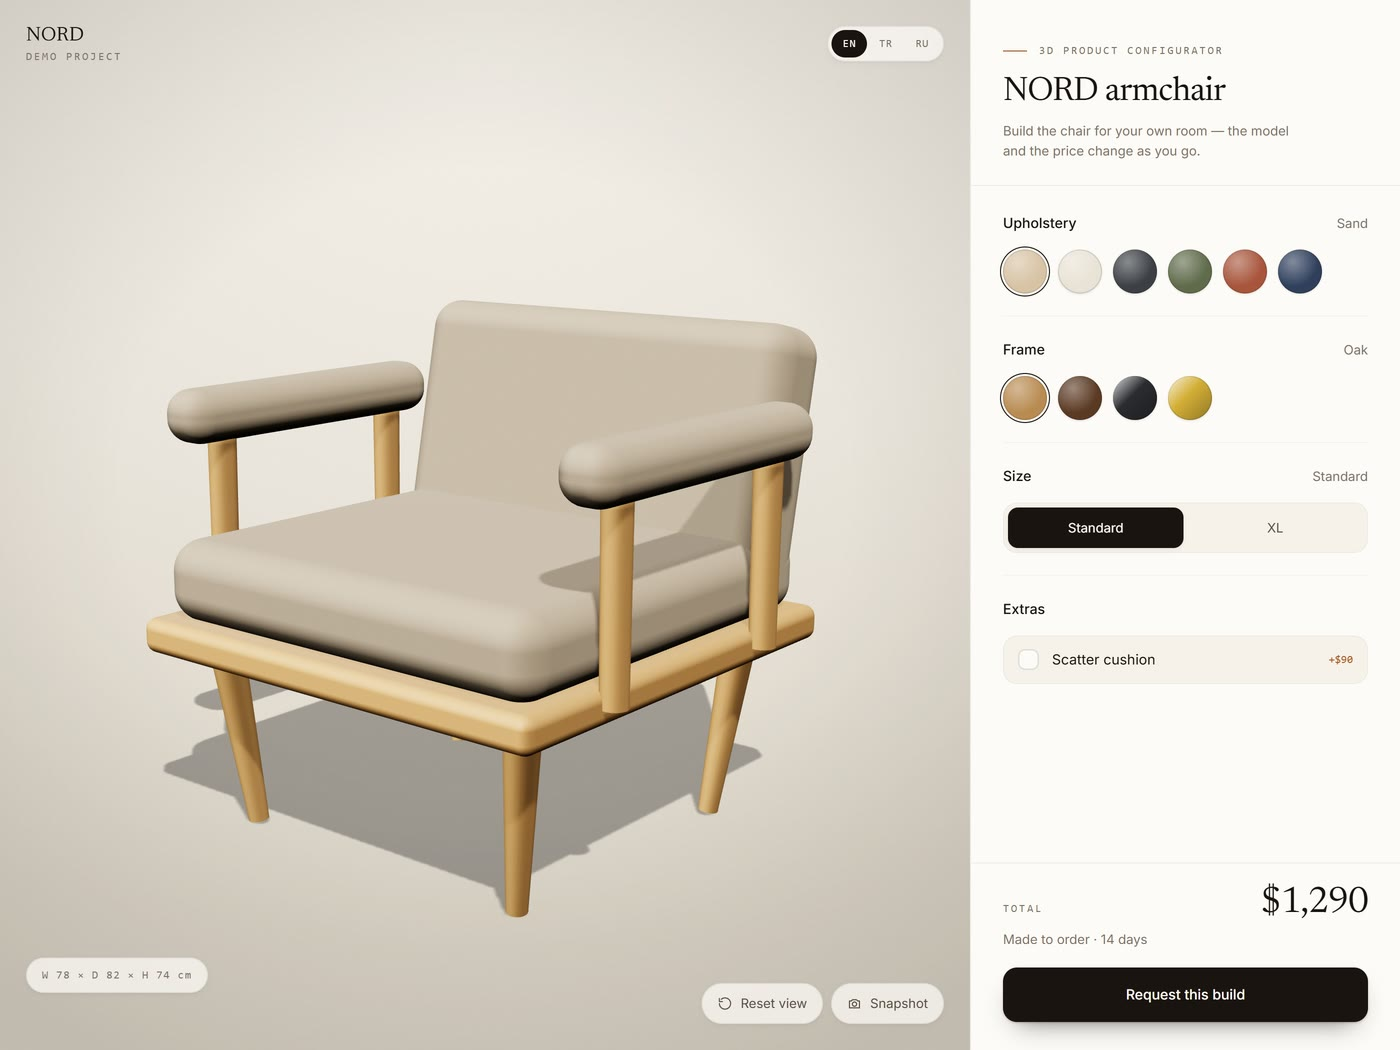
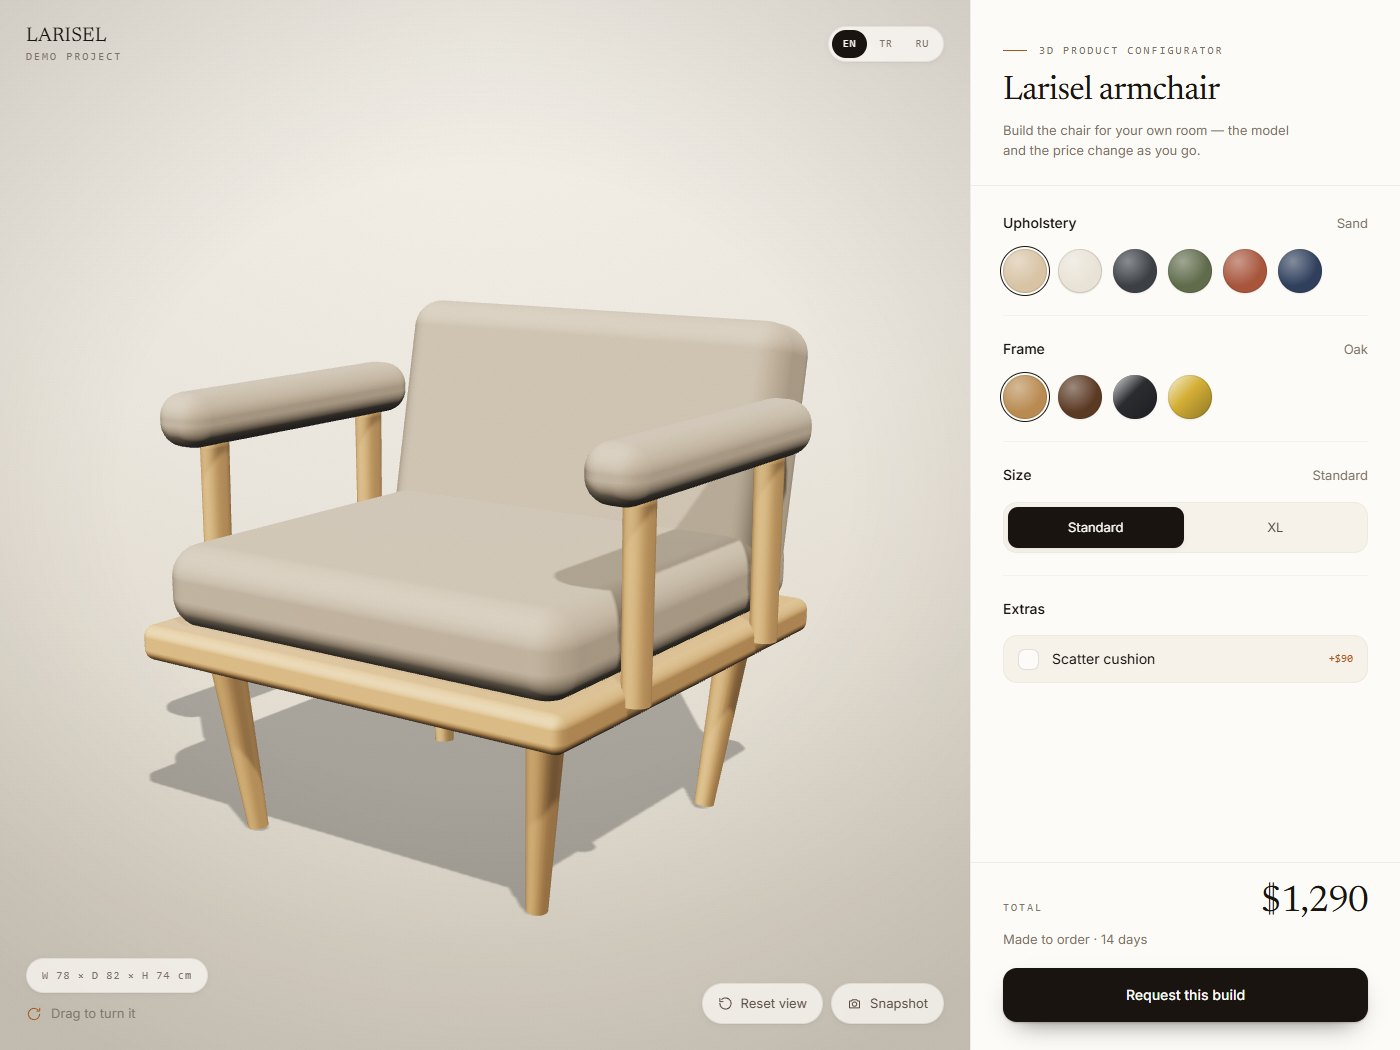
Portfolyo: tum projeler Larisel adiyla (Larisel Koltuk, Larisel Group, Larisel Ic Mekan, Larisel Siparis Botu); Larisel Group 3. siraya alindi; yeni gorseller ve depo adresleri

diff --git a/js/i18n.js b/js/i18n.js
@@ -55,22 +55,22 @@
       "Larisel Café": "Larisel Kafe",
       "A café site where the product is the interface: a scroll-driven film from bean to cup, a live 3D cup you design — colour, print, your name — a printed order ticket, ordering from the table by QR with a split bill, and a coffee reading from a photo of your own cup.":
         "Ürünün kendisinin arayüz olduğu bir kafe sitesi: çekirdekten bardağa kaydırmalı bir film, canlı 3B’de tasarlanan bardak (renk, desen, adın), basılı sipariş fişi, QR ile masadan sipariş ve hesap bölme, kendi fincanının fotoğrafından kahve falı.",
-      "03 — Interior configurator": "03 — İç mekân yapılandırıcı",
-      "Interior materials": "İç mekân malzemeleri",
+      "04 — Interior configurator": "04 — İç mekân yapılandırıcı",
+      "Larisel Interiors": "Larisel İç Mekân",
       "A room the client changes while standing in it: floor, worktop, cabinet fronts and wall colour, with a daylight-to-evening switch. Every material is generated in code, so nothing is downloaded and it opens on a phone.":
         "Müşterinin içinde dururken değiştirdiği bir oda: zemin, tezgâh, dolap kapağı ve duvar rengi; gündüzden akşama geçen ışık. Bütün malzemeler kodla üretiliyor, hiçbir şey indirilmiyor ve telefonda açılıyor.",
 
       "02 — Product configurator": "02 — Ürün yapılandırıcı",
-      "Armchair configurator": "Koltuk yapılandırıcı",
+      "Larisel Armchair": "Larisel Koltuk",
       "A real-time 3D configurator: six fabrics, four frame finishes, two sizes, with the price and lead time recalculating as the customer builds the product. Runs in the browser, no plugin, works on a phone.":
         "Gerçek zamanlı 3B yapılandırıcı: altı kumaş, dört gövde kaplaması, iki ölçü; müşteri ürünü kurdukça fiyat ve teslim süresi anında güncelleniyor. Tarayıcıda çalışır, eklenti istemez, telefonda da açılır.",
 
-      "04 — Corporate site": "04 — Kurumsal site",
+      "03 — Corporate site": "03 — Kurumsal site",
       "A corporate site for a fictional holding working across retail, construction and energy. Three languages from a single set of pages, a 3D building model on the construction section, and a design system built on tokens rather than one-off values.":
         "Market, inşaat ve enerji alanlarında çalışan kurgusal bir holding için kurumsal site. Tek sayfa takımından üç dil, inşaat bölümünde 3B bina modeli ve tek seferlik değerler yerine token'lara dayanan bir tasarım sistemi.",
 
       "05 — Automation": "05 — Otomasyon",
-      "Furniture shop order bot": "Mobilya mağazası sipariş botu",
+      "Larisel Order Bot": "Larisel Sipariş Botu",
       "A Telegram bot that carries a catalog, a cart and a five-step checkout, with an admin panel and Excel export behind it. Built so an order can never be silently lost — every step is validated and persisted.":
         "Katalog, sepet ve beş adımlı sipariş akışı taşıyan; arkasında yönetici paneli ve Excel dışa aktarımı olan bir Telegram botu. Hiçbir sipariş sessizce kaybolmasın diye kuruldu — her adım doğrulanır ve kaydedilir.",
 
@@ -126,7 +126,7 @@
         "Meşe gövde üzerinde kum rengi kumaşla render alınmış 3B koltuk yapılandırıcı",
       "A kitchen interior configured in the browser: marble worktop, gloss fronts, oak floor":
         "Tarayıcıda yapılandırılan bir mutfak iç mekânı: mermer tezgâh, lake kapaklar, meşe zemin",
-      "Tarven Group corporate website home page": "Tarven Group kurumsal web sitesi ana sayfası",
+      "Larisel Group corporate website home page": "Larisel Group kurumsal web sitesi ana sayfası",
       "Telegram order bot interface showing a furniture catalog":
         "Mobilya kataloğunu gösteren Telegram sipariş botu arayüzü",
       "Larisel — home": "Larisel — ana sayfa",
@@ -167,22 +167,22 @@
       "Larisel Café": "Кафе Larisel",
       "A café site where the product is the interface: a scroll-driven film from bean to cup, a live 3D cup you design — colour, print, your name — a printed order ticket, ordering from the table by QR with a split bill, and a coffee reading from a photo of your own cup.":
         "Сайт кофейни, где продукт и есть интерфейс: фильм от зерна до чашки при прокрутке, живой 3D-стакан, который вы оформляете сами, — цвет, узор, ваше имя, — печатный чек заказа, заказ со стола по QR с разделением счёта и гадание по фото вашей чашки.",
-      "03 — Interior configurator": "03 — Конфигуратор интерьера",
-      "Interior materials": "Материалы интерьера",
+      "04 — Interior configurator": "04 — Конфигуратор интерьера",
+      "Larisel Interiors": "Интерьеры Larisel",
       "A room the client changes while standing in it: floor, worktop, cabinet fronts and wall colour, with a daylight-to-evening switch. Every material is generated in code, so nothing is downloaded and it opens on a phone.":
         "Комната, которую клиент меняет, находясь внутри: пол, столешница, фасады и цвет стен, плюс переключение дневного и вечернего света. Все материалы генерируются кодом — ничего не скачивается, открывается с телефона.",
 
       "02 — Product configurator": "02 — Конфигуратор товара",
-      "Armchair configurator": "Конфигуратор кресла",
+      "Larisel Armchair": "Кресло Larisel",
       "A real-time 3D configurator: six fabrics, four frame finishes, two sizes, with the price and lead time recalculating as the customer builds the product. Runs in the browser, no plugin, works on a phone.":
         "3D-конфигуратор в реальном времени: шесть тканей, четыре отделки каркаса, два размера, а цена и срок пересчитываются прямо по ходу сборки. Работает в браузере, без плагинов, в том числе на телефоне.",
 
-      "04 — Corporate site": "04 — Корпоративный сайт",
+      "03 — Corporate site": "03 — Корпоративный сайт",
       "A corporate site for a fictional holding working across retail, construction and energy. Three languages from a single set of pages, a 3D building model on the construction section, and a design system built on tokens rather than one-off values.":
         "Корпоративный сайт вымышленного холдинга, работающего в ритейле, строительстве и энергетике. Три языка на одном наборе страниц, 3D-модель здания в разделе строительства и дизайн-система на токенах вместо разовых значений.",
 
       "05 — Automation": "05 — Автоматизация",
-      "Furniture shop order bot": "Бот заказов мебельного магазина",
+      "Larisel Order Bot": "Бот заказов Larisel",
       "A Telegram bot that carries a catalog, a cart and a five-step checkout, with an admin panel and Excel export behind it. Built so an order can never be silently lost — every step is validated and persisted.":
         "Telegram-бот с каталогом, корзиной и оформлением заказа в пять шагов, с админ-панелью и выгрузкой в Excel. Сделан так, чтобы заказ не терялся молча: каждый шаг проверяется и сохраняется.",
 
@@ -236,7 +236,7 @@
         "3D-конфигуратор кресла: песочная ткань на дубовом каркасе",
       "A kitchen interior configured in the browser: marble worktop, gloss fronts, oak floor":
         "Кухонный интерьер, собранный в браузере: мраморная столешница, глянцевые фасады, дубовый пол",
-      "Tarven Group corporate website home page": "Главная страница корпоративного сайта Tarven Group",
+      "Larisel Group corporate website home page": "Главная страница корпоративного сайта Larisel Group",
       "Telegram order bot interface showing a furniture catalog":
         "Интерфейс Telegram-бота заказов с каталогом мебели",
       "Larisel — home": "Larisel — главная",

diff --git a/index.html b/index.html
@@ -142,11 +142,11 @@
         <!-- 02 -->
         <article class="project reveal">
           <div class="project__media">
-            <img src="./img/work/configurator-1.jpg" alt="3D armchair configurator rendered in sand fabric on an oak frame" width="1400" height="1050" loading="lazy" decoding="async">
+            <img src="./img/work/configurator-1.jpg?v=2" alt="3D armchair configurator rendered in sand fabric on an oak frame" width="1400" height="1050" loading="lazy" decoding="async">
           </div>
           <div class="project__body">
             <span class="label label--rule project__index">02 — Product configurator</span>
-            <h3 class="project__title">Armchair configurator</h3>
+            <h3 class="project__title">Larisel Armchair</h3>
             <p class="project__desc">
               A real-time 3D configurator: six fabrics, four frame finishes, two sizes,
               with the price and lead time recalculating as the customer builds the
@@ -165,11 +165,35 @@
         <!-- 03 -->
         <article class="project reveal">
           <div class="project__media">
+            <img src="./img/work/larisel-group-1.png" alt="Larisel Group corporate website home page" width="1200" height="630" loading="lazy" decoding="async">
+          </div>
+          <div class="project__body">
+            <span class="label label--rule project__index">03 — Corporate site</span>
+            <h3 class="project__title">Larisel Group</h3>
+            <p class="project__desc">
+              A corporate site for a fictional holding working across retail,
+              construction and energy. Three languages from a single set of pages,
+              a 3D building model on the construction section, and a design system
+              built on tokens rather than one-off values.
+            </p>
+            <ul class="project__stack">
+              <li>Three.js</li><li>Design tokens</li><li>i18n (TR/RU/EN)</li><li>Static</li>
+            </ul>
+            <div class="project__links">
+              <a class="btn btn--primary" href="https://larisel.com/larisel-group/" target="_blank" rel="noopener">Open live</a>
+              <a class="btn btn--ghost" href="https://github.com/StillBenn/larisel-group" target="_blank" rel="noopener">Source</a>
+            </div>
+          </div>
+        </article>
+
+        <!-- 04 -->
+        <article class="project reveal">
+          <div class="project__media">
             <img src="./img/work/ic-mekan-1.jpg" alt="A kitchen interior configured in the browser: marble worktop, gloss fronts, oak floor" width="1400" height="1050" loading="lazy" decoding="async">
           </div>
           <div class="project__body">
-            <span class="label label--rule project__index">03 — Interior configurator</span>
-            <h3 class="project__title">Interior materials</h3>
+            <span class="label label--rule project__index">04 — Interior configurator</span>
+            <h3 class="project__title">Larisel Interiors</h3>
             <p class="project__desc">
               A room the client changes while standing in it: floor, worktop, cabinet
               fronts and wall colour, with a daylight-to-evening switch. Every material
@@ -184,30 +208,6 @@
           </div>
         </article>
 
-        <!-- 04 -->
-        <article class="project reveal">
-          <div class="project__media">
-            <img src="./img/work/tarven-1.png" alt="Tarven Group corporate website home page" width="1200" height="630" loading="lazy" decoding="async">
-          </div>
-          <div class="project__body">
-            <span class="label label--rule project__index">04 — Corporate site</span>
-            <h3 class="project__title">Tarven Group</h3>
-            <p class="project__desc">
-              A corporate site for a fictional holding working across retail,
-              construction and energy. Three languages from a single set of pages,
-              a 3D building model on the construction section, and a design system
-              built on tokens rather than one-off values.
-            </p>
-            <ul class="project__stack">
-              <li>Three.js</li><li>Design tokens</li><li>i18n (TR/RU/EN)</li><li>Static</li>
-            </ul>
-            <div class="project__links">
-              <a class="btn btn--primary" href="https://larisel.com/tarven-group/" target="_blank" rel="noopener">Open live</a>
-              <a class="btn btn--ghost" href="https://github.com/StillBenn/tarven-group" target="_blank" rel="noopener">Source</a>
-            </div>
-          </div>
-        </article>
-
         <!-- 05 -->
         <article class="project reveal">
           <div class="project__media">
@@ -215,7 +215,7 @@
           </div>
           <div class="project__body">
             <span class="label label--rule project__index">05 — Automation</span>
-            <h3 class="project__title">Furniture shop order bot</h3>
+            <h3 class="project__title">Larisel Order Bot</h3>
             <p class="project__desc">
               A Telegram bot that carries a catalog, a cart and a five-step checkout,
               with an admin panel and Excel export behind it. Built so an order can
@@ -225,7 +225,7 @@
               <li>Python</li><li>aiogram 3</li><li>SQLite</li><li>Excel export</li>
             </ul>
             <div class="project__links">
-              <a class="btn btn--ghost" href="https://github.com/StillBenn/telegram-bot-nord" target="_blank" rel="noopener">Source</a>
+              <a class="btn btn--ghost" href="https://github.com/StillBenn/telegram-bot-larisel" target="_blank" rel="noopener">Source</a>
             </div>
           </div>
         </article>
